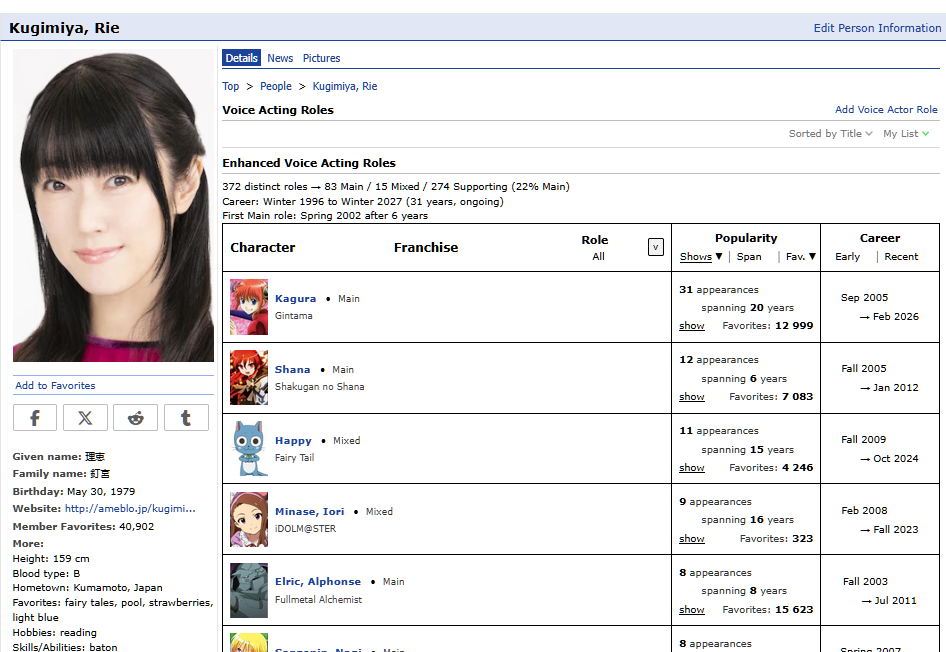
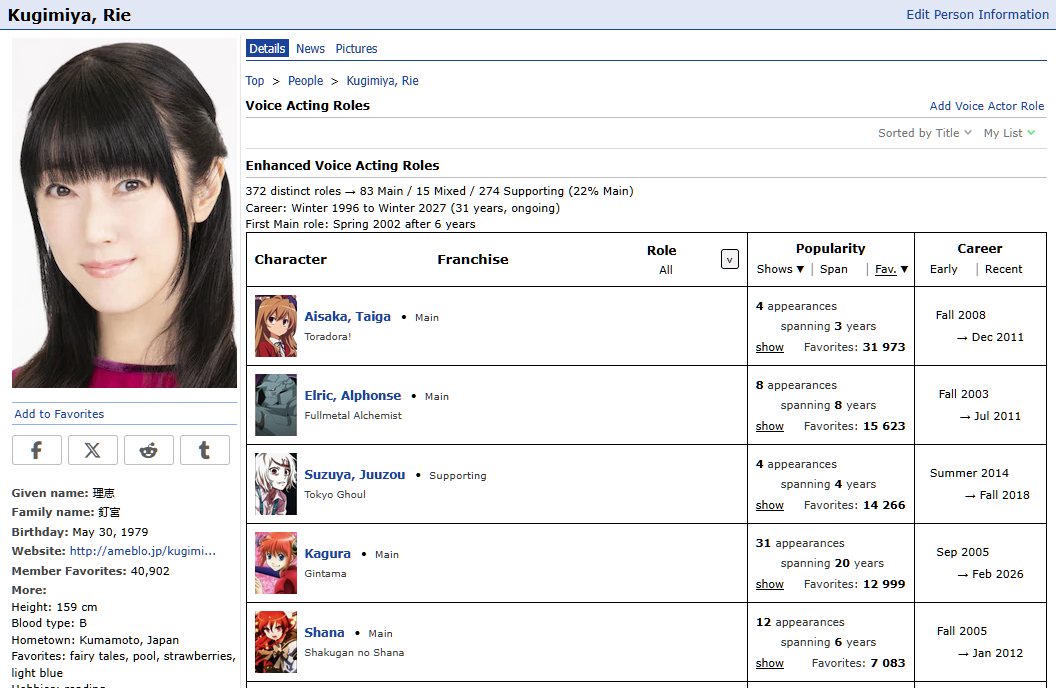
better screenshots

diff --git a/README.md b/README.md
@@ -3,7 +3,9 @@
 This Firefox add-on improves the presentation on the website [MyAnimeList](https://myanimelist.net/).
 It targets voice actors' list of roles on their people page, e.g. [Rie Kugimiya's page](https://myanimelist.net/people/8/Rie_Kugimiya).
 
-!screenshots/before.png → !screenshots/after.png
+<img src="screenshots/before.png" alt="before" width="900">
+
+![before](screenshots/before.png) → ![after](screenshots/after.png)
 
 To install it, just download the .xpi at [this link](https://github.com/DeathBurst/MAL_People_Enhancer_FFaddon/releases/download/v1.3/mal_people_page_enhancer-1.3.0.xpi) and accept Firefox pop-up. Future versions should auto-update.
 
